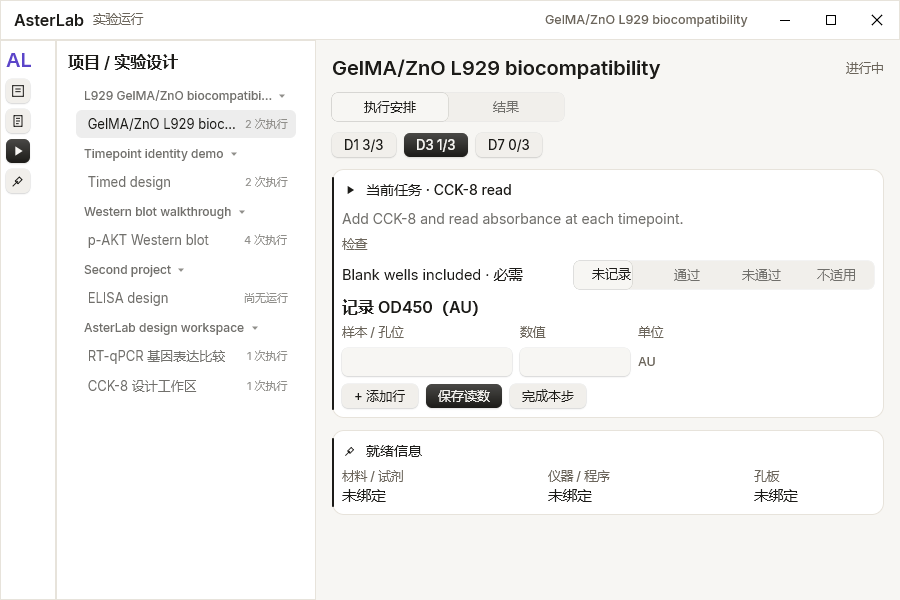
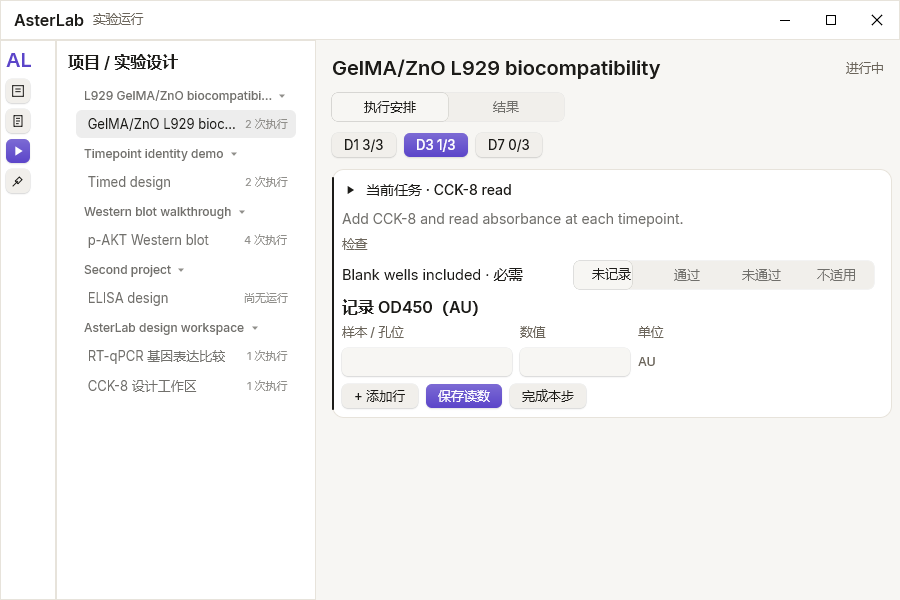
feat: two-column Rune run workspace with purple schedule and dark hierarchy

diff --git a/native/asterlab-run/src/main.rs b/native/asterlab-run/src/main.rs
@@ -154,9 +154,9 @@ impl App {
 fn theme(dark: bool) -> tok::Theme {
     let mut t = tok::theme(dark);
     if dark {
-        t.bg = hex("#12110f").unwrap(); t.card = hex("#1b1916").unwrap(); t.card_border = hex("#302c26").unwrap();
-        t.text = hex("#f2eee6").unwrap(); t.text_secondary = hex("#a9a196").unwrap();
-        t.separator = hex("#302c26").unwrap(); t.hover = hex("#26231f").unwrap();
+        t.bg = hex("#100f0d").unwrap(); t.card = hex("#201d18").unwrap(); t.card_border = hex("#3a342b").unwrap();
+        t.text = hex("#f5f1e9").unwrap(); t.text_secondary = hex("#b8afa2").unwrap();
+        t.separator = hex("#332d25").unwrap(); t.hover = hex("#2d2720").unwrap();
     } else {
         t.bg = hex("#f7f6f3").unwrap(); t.card = hex("#ffffff").unwrap(); t.card_border = hex("#e7e3db").unwrap();
         t.text = hex("#1c1b18").unwrap(); t.text_secondary = hex("#6b655b").unwrap();
@@ -184,7 +184,14 @@ static I_TOOLS: RuneIcon = RuneIcon { name: "tools", view: 24.0, body: r#"<path 
 
 fn view(a: &App, cx: &mut Cx<App>) -> El {
     let t = theme(cx.system_dark());
-    let k = Kit::from_palette(PaletteSeed { bg: t.bg, fg: t.text, accent: accent() });
+    let mut k = Kit::from_palette(PaletteSeed { bg: t.bg, fg: t.text, accent: accent() });
+    k.c.bg_icon_button_contrast = accent();
+    k.c.bg_accent = accent();
+    k.c.text_accent = accent();
+    k.c.submit_fg = hex("#ffffff").unwrap();
+    k.c.submit_icon = hex("#ffffff").unwrap();
+    k.c.submit_hover = hex("#4b37ae").unwrap();
+    k.c.contrast_hover = hex("#4b37ae").unwrap();
     let title = a.workspace["frozen_design"]["content"]["title"].as_str().unwrap_or("实验运行");
     let status = status_cn(a.workspace["status"].as_str().unwrap_or(""));
     let selected_tp = a.task().and_then(|x| x["timepoint"].as_str()).unwrap_or("").to_owned();
@@ -296,19 +303,19 @@ fn view(a: &App, cx: &mut Cx<App>) -> El {
         let materials = arr(&a.workspace, "materials").len();
         let plates = arr(&a.workspace, "plates").len();
         let instruments = arr(&a.workspace, "instruments").len();
-        let readiness = |label: &str, value: String| col().w(190.0).gap(2.0)
-            .child(text(label.to_owned()).font(LABEL).color(t.text_secondary))
+        let readiness = |label: &str, value: String| row().w_full().gap(space::S2).items_center()
+            .child(text(label.to_owned()).w(88.0).font(LABEL).color(t.text_secondary))
             .child(text(value).font(BODY).color(t.text).wrap());
         let mut right = Card::new().title("就绪信息", Some(&I_TOOLS));
-        right = right.child(row().w_full().gap(16.0)
-            .child(readiness("材料 / 试剂", if materials == 0 { "未绑定".into() } else { format!("{materials} 项") }))
+        right = right.child(readiness("材料 / 试剂", if materials == 0 { "未绑定".into() } else { format!("{materials} 项") }))
             .child(readiness("仪器 / 程序", if instruments == 0 { "未绑定".into() } else { format!("{instruments} 项") }))
-            .child(readiness("孔板", if plates == 0 { "未绑定".into() } else { format!("{plates} 块") })));
-        content = content.child(left.build(&k).fill(t.card).border(1.0, t.card_border).radius(12.0));
-        content = content.child(right.build(&k).fill(t.card).border(1.0, t.card_border).radius(12.0));
+            .child(readiness("孔板", if plates == 0 { "未绑定".into() } else { format!("{plates} 块") }));
+        content = content.child(row().w_full().gap(16.0).items_start().wrap()
+            .child(left.build(&k).fill(t.card).border(1.0, t.card_border).radius(12.0).w(560.0).min_w(0.0))
+            .child(right.build(&k).fill(t.card).border(1.0, t.card_border).radius(12.0).w(240.0).min_w(240.0)));
     }
 
-    let main_area = col().grow(1.0).min_w(0.0).min_h(0.0).child(content);
+    let main_area = col().grow(1.0).min_w(0.0).min_h(0.0).scroll(ScrollSpec { stick_bottom: false }).child(content);
     let insets = cx.chrome_insets();
     let top = row().w_full().h(40.0).px(14.0).pr(14.0 + insets.trailing)
         .items_center().gap(space::S2).fill(t.card).border(1.0, t.card_border)
@@ -316,7 +323,7 @@ fn view(a: &App, cx: &mut Cx<App>) -> El {
         .child(text("AsterLab").font(SECTION).color(t.text))
         .child(text("实验运行").font(LABEL).color(t.text_secondary))
         .child(el().grow(1.0))
-        .child(text(title.to_owned()).font(LABEL).color(t.text_secondary).wrap());
+        .child(text(String::new()).font(LABEL).color(t.text_secondary));
     let body = row().w_full().grow(1.0).min_h(0.0)
         .child(rail)
         .child(side)

diff --git a/docs/design/GATE2_RUN.md b/docs/design/GATE2_RUN.md
@@ -3,8 +3,9 @@
 - 状态：**实现完成，待主人验收保存/重启闭环**。
 - 日期：2026-11-08
 - 代码：`native/asterlab-run/`
-- 正式视觉：`rune-gate2-titlebar.png`
+- 正式视觉：`rune-gate2-1200.png`
 - 自定义 titlebar：无 Windows 原生标题栏，40pt 拖动带 + Rune 绘制 caption 按钮
+- 2/3 记录 + 1/3 就绪：1200px 下成立；900px 下就绪卡换行到下方并可滚动
 - 窄窗：`rune-gate2-900.png`
 - 150% / 200%：`rune-gate2-150.png`, `rune-gate2-200.png`
 - 深色：`rune-gate2-dark.png`
@@ -34,6 +35,7 @@
 | 100%/150%/200% | 截图通过 |
 | 窄窗 900 | 通过，卡片单列 |
 | 保存读数 | **通过**：debug 填充 `Control-1/0.82` 后保存，CLI 回读成功；正常 UI 需填写样本 |
+| 保存错误 | 已显示 CLI 的 message/code；样本为空时明确提示 |
 | 关闭重启回看 | 数据已写入；需主人用真实键盘完整走一次 |
 | 安装包/签名 | 未做 |
 
